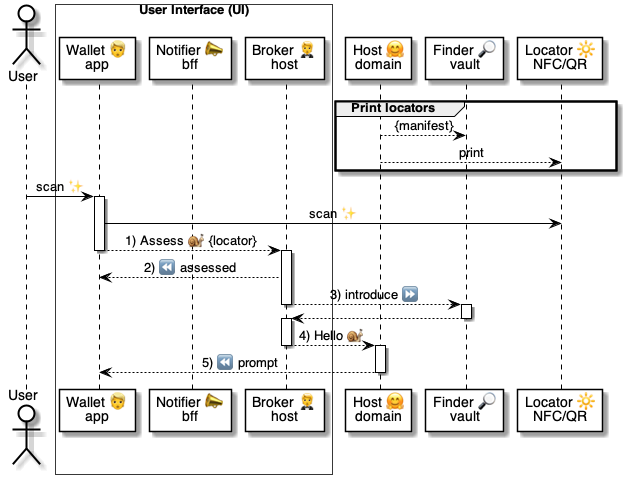
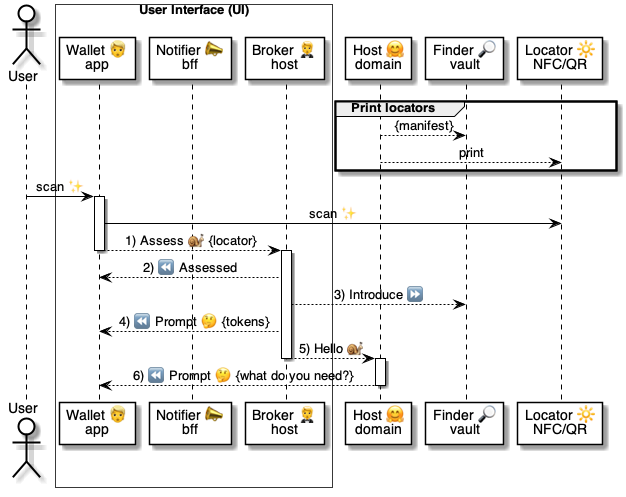
.

diff --git a/4 ⚙ Solution/20 🧑🦰 UI/24 🗄 Vaults/05 🛠👥 Helper domain.md b/4 ⚙ Solution/20 🧑🦰 UI/24 🗄 Vaults/05 🛠👥 Helper domain.md
@@ -3,11 +3,20 @@
 
 1. **What are Helper domains?**
 
-    Helpers 🛠 are [domains 👥](<../../40 👥 Domains/44 📜 Manifests/00 👥 Domain.md>) that support other [domains 👥](<../../40 👥 Domains/44 📜 Manifests/00 👥 Domain.md>) by offloading common undifferentiated responsibilities.
+    A [Helper 🛠👥](<05 🛠👥 Helper domain.md>) is
+    - any [domain 👥](<../../40 👥 Domains/44 📜 Manifests/00 👥 Domain.md>) that support other [domains 👥](<../../40 👥 Domains/44 📜 Manifests/00 👥 Domain.md>) 
+    - by offloading common undifferentiated responsibilities.
+
+    ---
+    <br/>
+
+1. **How do Helpers compare to Vaults?**
+
     * They are similar to [Vault 🗄 domains](<03 🗄🎭 Vault role.md>), but focused on [domains 👥](<../../40 👥 Domains/44 📜 Manifests/00 👥 Domain.md>) instead of [Wallet 🧑🦰 apps](<../01 🧑🦰 Wallets/01 🧑🦰 Wallet app.md>).
     * Given the similarity, some [Vault 🗄 domains](<03 🗄🎭 Vault role.md>) may also be Helpers 🛠 (e.g., [Payer 💳 domains](<../../30 🫥 Agents/04 💳 Payers/03 💳🎭 Payer role.md>)).
 
     ---
+    <br/>
 
 1. **What are examples of Helper domains?**
    
@@ -25,16 +34,70 @@
     | [🪄 Wand](<../../70 🌳 Ambient/71 💠 Brand Things/09 🪄🛠 Wand helper.md>) | - | Manages [Chats 💬](<../12 💬 Chats/01 💬 Chat.md>) for [Things 💠](<../../70 🌳 Ambient/71 💠 Brand Things/01 💠 Thing.md>) on behalf of [Brand 🍏 domains](<../../70 🌳 Ambient/71 💠 Brand Things/07 🍏🎭 Brand role.md>).
 
     ---
+    <br/>
 
-1. **How do domains leverage Helper domains?**
+1. **How can domain-admin users leverage a Helper?**
+
+    |#| Group | Step
+    |-|-|-
+    |1| `Find` | [Find 🔎](<../../30 🫥 Agents/10 🔎 Finders/02 🔎🫥 Finder vault.md>) a [Helper 🛠 ](<05 🛠👥 Helper domain.md>) with the desired services
+    |2| `Chat` | [Chat 💬](<../12 💬 Chats/01 💬 Chat.md>) with the Helper's [Host 🤗 role](<../12 💬 Chats/04 🤗🎭 Host role.md>)
+    |3| `Bind`| [Bind 🔗](<../24 🗄 Vaults/01 🔗 Bind.md>) to the Helper's [Vault 🗄 role](<../24 🗄 Vaults/03 🗄🎭 Vault role.md>)
+    |4| `Bill` | Subscribe a plan in the Helper's [Biller 🤝](<../../30 🫥 Agents/04 💳 Payers/06 🤝🛠 Biller helper.md>)
+    |5| `Link` | Link a [Payer 💳](<../../30 🫥 Agents/04 💳 Payers/03 💳🎭 Payer role.md>) with the Helper's [Biller 🤝](<../../30 🫥 Agents/04 💳 Payers/06 🤝🛠 Biller helper.md>)
+
 
     ---
+    <br/>
 
-1. **Do domains have to register with Helper domains?**
+1. **What does the Chat look like?**
 
+    | Service | Prompt  | User 
+    | - | - | - 
+    | 🛠 [Helper](<05 🛠👥 Helper domain.md>) | 😃 Hi! What do you need? <br/>- [ Register ]  | > Register
+    | 🤵 [Broker](<../../../4 ⚙ Solution/20 🧑🦰 UI/03 🤵 Brokers/03 🤵 Broker domain.md>) | 🫥 [Ready to register?](<../../../5 ⏩ Flows/50 🤗⏩ Hosts/05 🤗⏩🧑🦰 Form 📝.md>) [Yes, No] <br>- Bind to create a profile. <br/>- Choose a billing plan. <br/>- Add a payment method. <br/>- Sign the terms and conditions. | > Yes
+    | 🤵 [Broker](<../03 🤵 Brokers/03 🤵 Broker domain.md>) | 🫥 [Bind?](<../../../5 ⏩ Flows/90 🧑🦰👉 Wallets/30 👉🔗 Binds/02 🧑🦰👉🗄 Bind.md>) [Yes, No, +]<br/>- [HOST/PERSONALIZE 🧩](<../../../8 📜 Manifests/👥 nlweb.org/{codes}/HOST/🧩 HostPersonalize.md>) | > Yes 
+    | 🤵 [Broker](<../../../4 ⚙ Solution/20 🧑🦰 UI/03 🤵 Brokers/03 🤵 Broker domain.md>) | 🫥 [Allow guest domain?](<../../../5 ⏩ Flows/50 🤗⏩ Hosts/03 🤗⏩🧑🦰 Invite 🛠.md>) [Yes, No]  <br/> - Any Biller 🤝<br/>- [ Always ] for Any Helper 🛠 | > Always
+    | 🤝 [Biller](<../../30 🫥 Agents/04 💳 Payers/06 🤝🛠 Biller helper.md>) | 😃 What plan to subscribe? <br/>- [ Simple ] pay-as-you-go  <br/>- [ Monthly ] commitment | > Simple
+    | 💳 [Payer](<../../30 🫥 Agents/04 💳 Payers/03 💳🎭 Payer role.md>) | 🫥 Link to Any Biller? [Yes, No, +] <br/>- [ card ABC ] + $0.10<br/>- [ card DEF ] (free) | > card ABC 
+    | 🆔 [Identity](<../../30 🫥 Agents/05 🆔 Identities/01 🆔🫥 Identity agent.md>) | 🫥 Sign terms? 📄 [Yes, No] | > Yes
+    | 🆔 [Identity](<../../30 🫥 Agents/05 🆔 Identities/01 🆔🫥 Identity agent.md>) | 🫥 Let me see if it's you. | [📸 selfie](<../../30 🫥 Agents/05 🆔 Identities/21 🆔😶 Face scan.md>)
+    | 🛠 [Helper](<05 🛠👥 Helper domain.md>) | ✅ Done!
+    
+    ---
+    <br/>
+
+1. **What does the Bind Chat looks like?**
+
+    | Service | Prompt  | User 
+    | - | - | - 
+    | [🛠 Helper](<05 🛠👥 Helper domain.md>) | 😃 Hi! What do you need? <br/>- [ Bind ]  | > Bind
+    | [🛠 Helper](<05 🛠👥 Helper domain.md>) | ✅ Done!
+    
+    | [🤵 Broker](<../03 🤵 Brokers/03 🤵 Broker domain.md>) | 🫥 Bind [Yes, No]<br/>- domain admin 🧩 | > Yes 
+    | [🧑💻 Hoster](<../35 ☁ Hosters/05 ☁🛠 Hoster helper.md>) | 😃 Name for the domain? | `my-domain`
+    | 🤵 [Broker](<../03 🤵 Brokers/03 🤵 Broker domain.md>) | 🫥 Save token? [Yes, No] <br/>- domain owner 🎫 <br/>- of my-domain
+    | [🧑💻 Hoster](<../35 ☁ Hosters/05 ☁🛠 Hoster helper.md>) | ✅ Done!
+
+1. **What roles do Helpers typically implement?**
+
+    | [Role 🎭](<../../40 👥 Domains/44 📜 Manifests/00 👥 Domain.md>) | Purpose
+    |-|-
+    | [🤗 Host](<../12 💬 Chats/04 🤗🎭 Host role.md>) | To open [Chats 💬](<../12 💬 Chats/01 💬 Chat.md>) with domain-admin users.
+    | [🪢 Integrator](<../12 💬 Chats/06 🪢🎭 Integrator role.md>) | To manifest its services to  [Finder 🔎 domains](<../../30 🫥 Agents/10 🔎 Finders/02 🔎🫥 Finder vault.md>).
+    | [💵 Seller](<../../30 🫥 Agents/04 💳 Payers/01 💵🎭 Seller role.md>) | To sell the usage plans via a [Biller 💳 helper domain](<../../30 🫥 Agents/04 💳 Payers/06 🤝🛠 Biller helper.md>).
+    
 
     ---
+    <br/>
 
-1. **How do Helper domains monetize?**
-   
+
+1. **What other domain Helpers do Helpers typically leverage?**
+
+    | [Helper 🛠](<../24 🗄 Vaults/05 🛠👥 Helper domain.md>)  | Purpose 
+    |-|-
+    | [💳 Biller](<../../30 🫥 Agents/04 💳 Payers/06 🤝🛠 Biller helper.md>) | To manage usage and subscription plans.
+    | [🏦 Collector](<../../30 🫥 Agents/04 💳 Payers/01 🏦🛠 Collector helper.md>) | To collect usage and subscription payments.
+    
     ---
+    <br/>

diff --git a/4 ⚙ Solution/20 🧑🦰 UI/35 ☁ Hosters/05 ☁🛠 Hoster helper.md b/4 ⚙ Solution/20 🧑🦰 UI/35 ☁ Hosters/05 ☁🛠 Hoster helper.md
@@ -1,5 +1,12 @@
 # 🧑💻🛠 Hoster helper FAQ
 
+|.|.|.
+|-|-|-
+|3| `Clone`| On a workstation terminal, <br/>the user [scans ✨](<../11 🔆 Locators/03 🧑🦰✨ Wallet QR scan.md>) the terminal QR code <br/>to link the terminal to the [Wallet 🧑🦰 app](<../01 🧑🦰 Wallets/01 🧑🦰 Wallet app.md>)<br/>and download the [domain 👥](<../../40 👥 Domains/44 📜 Manifests/00 👥 Domain.md>) settings.
+|4| `Edit`| On a code editor (e.g., Visual Studio Code)<br/>the user configures the logic webhooks <br/>and the public [domain 📜 Manifest](<../../40 👥 Domains/44 📜 Manifests/01 📜 Domain Manifest.md>).
+|5| `Sync`| On the workstation terminal, <br/>the user synchronizes the changes <br/>with the [Hoster ☁ domain](<05 ☁🛠 Hoster helper.md>).
+|6| `Test`| From the workstation terminal, <br/>the user opens [Chats 💬](<../12 💬 Chats/01 💬 Chat.md>) for manual testing.
+
 1. **What is a Hoster?**
 
     A [🧑💻 Hoster](<05 ☁🛠 Hoster helper.md>) is 
@@ -10,58 +17,9 @@
     ---
     <br/>
 
-1. **What roles do Hosters typically implement?**
-
-    | [Role 🎭](<../../40 👥 Domains/44 📜 Manifests/00 👥 Domain.md>) | Purpose
-    |-|-
-    | [🤗 Host](<../12 💬 Chats/04 🤗🎭 Host role.md>) | To have [Chats 💬](<../12 💬 Chats/01 💬 Chat.md>) with users.
-    | [🗄 Vault](<../24 🗄 Vaults/03 🗄🎭 Vault role.md>) | To store the [domain 👥](<../../40 👥 Domains/44 📜 Manifests/00 👥 Domain.md>) settings.
-    | [🎴 Issuer](<../25 🎫 Tokens/02 🎴🎭 Issuer role.md>) | To issue [domain 👥](<../../40 👥 Domains/44 📜 Manifests/00 👥 Domain.md>) ownership [Tokens 🎫](<../25 🎫 Tokens/01 🎫 Token.md>).
-    | [🪢 Integrator](<../12 💬 Chats/06 🪢🎭 Integrator role.md>) | To manifest the hosting service to  [Finder 🔎 domains](<../../30 🫥 Agents/10 🔎 Finders/02 🔎🫥 Finder vault.md>).
-    | [💵 Seller](<../../30 🫥 Agents/04 💳 Payers/01 💵🎭 Seller role.md>) | To sell the usage plans via a [Biller 💳 helper domain](<../../30 🫥 Agents/04 💳 Payers/06 🤝🛠 Biller helper.md>).
-    
-
-    ---
-    <br/>
-
-1. **What domain Helpers do Hosters typically leverage?**
-
-    | [Helper 🛠](<../24 🗄 Vaults/05 🛠👥 Helper domain.md>)  | Purpose 
-    |-|-
-    | [💳 Biller](<../../30 🫥 Agents/04 💳 Payers/06 🤝🛠 Biller helper.md>) | To manage usage and subscription plans.
-    | [🏦 Collector](<../../30 🫥 Agents/04 💳 Payers/01 🏦🛠 Collector helper.md>) | To collect usage and subscription payments.
-    
-    ---
-    <br/>
 
 
-1. **How can a domain admin user leverage a [🧑💻 Hoster](<05 ☁🛠 Hoster helper.md>)?**
 
-    |#| Category | Step
-    |-|-|-
-    |1| `Find` | Using their [Wallet 🧑🦰 app](<../01 🧑🦰 Wallets/01 🧑🦰 Wallet app.md>), <br/>the admin user [finds 🔎](<../../30 🫥 Agents/10 🔎 Finders/02 🔎🫥 Finder vault.md>) a [Hoster ☁ domain](<../12 💬 Chats/01 💬 Chat.md>) with the [Hoster's Host 🤗 role](<../12 💬 Chats/04 🤗🎭 Host role.md>).
-    |2| `Bind`| On the [Chat 💬](<../12 💬 Chats/01 💬 Chat.md>), <br/>the user [Binds 🔗](<../24 🗄 Vaults/01 🔗 Bind.md>) to the [Hoster's Vault 🗄 role](<../24 🗄 Vaults/03 🗄🎭 Vault role.md>), <br/>and creates a new [domain 👥](<../../40 👥 Domains/44 📜 Manifests/00 👥 Domain.md>).
-    |3| `Clone`| On a workstation terminal, <br/>the user [scans ✨](<../11 🔆 Locators/03 🧑🦰✨ Wallet QR scan.md>) the terminal QR code <br/>to link the terminal to the [Wallet 🧑🦰 app](<../01 🧑🦰 Wallets/01 🧑🦰 Wallet app.md>)<br/>and download the [domain 👥](<../../40 👥 Domains/44 📜 Manifests/00 👥 Domain.md>) settings.
-    |4| `Edit`| On a code editor (e.g., Visual Studio Code)<br/>the user configures the logic webhooks <br/>and the public [domain 📜 Manifest](<../../40 👥 Domains/44 📜 Manifests/01 📜 Domain Manifest.md>).
-    |5| `Sync`| On the workstation terminal, <br/>the user synchronizes the changes <br/>with the [Hoster ☁ domain](<05 ☁🛠 Hoster helper.md>).
-    |6| `Test`| From the workstation terminal, <br/>the user opens [Chats 💬](<../12 💬 Chats/01 💬 Chat.md>) for manual testing.
-
-    ---
-    <br/>
-
-
-1. **What does the Wallet Chat looks like?**
-
-    | Service | Prompt  | User 
-    | - | - | - 
-    | [🧑💻 Hoster](<05 ☁🛠 Hoster helper.md>) | 😃 Hi! What do you need? <br/>- [ Create ] a domain <br/>- [ Something else ] | > Create
-    | [🤵 Broker](<../03 🤵 Brokers/03 🤵 Broker domain.md>) | 🫥 Bind [Yes, No]<br/>- domain admin 🧩 | > Yes 
-    | [🧑💻 Hoster](<05 ☁🛠 Hoster helper.md>) | 😃 Name for the domain? | `my-domain`
-    | 🤵 [Broker](<../03 🤵 Brokers/03 🤵 Broker domain.md>) | 🫥 Save token? [Yes, No] <br/>- domain owner 🎫 <br/>- of my-domain
-    | [🧑💻 Hoster](<05 ☁🛠 Hoster helper.md>) | ✅ Done!
-    
-    ---
-    <br/>
 
 1. **What commands are supported on the terminal CLI?**
 

diff --git a/5 ⏩ Flows/90 🧑🦰👉 Wallets/15 👉🔆 Locators/01 🧑🦰👉🤗 Scan host QR.md b/5 ⏩ Flows/90 🧑🦰👉 Wallets/15 👉🔆 Locators/01 🧑🦰👉🤗 Scan host QR.md
@@ -13,6 +13,8 @@
 | - | - | - |
 | | | 🔆 [scan](<../../../4 ⚙ Solution/20 🧑🦰 UI/11 🔆 Locators/01 🔆 Locator.md>) |
 | 🔎 [Finder](<../../../4 ⚙ Solution/30 🫥 Agents/10 🔎 Finders/02 🔎🫥 Finder vault.md>) | ⓘ Any Host (4.8 ⭐) [+]
+| 🤵 [Broker](<../../../4 ⚙ Solution/20 🧑🦰 UI/03 🤵 Brokers/03 🤵 Broker domain.md>) | ⓘ [Tokens 🎫 ](<../../../4 ⚙ Solution/20 🧑🦰 UI/25 🎫 Tokens/01 🎫 Token.md>) shared [+]
+| 🤗 [Host](<../../../4 ⚙ Solution/20 🧑🦰 UI/12 💬 Chats/04 🤗🎭 Host role.md>) | ℹ Any Locator details.
 | 🤗 [Host](<../../../4 ⚙ Solution/20 🧑🦰 UI/12 💬 Chats/04 🤗🎭 Host role.md>) | 😃 Hi! What do you need? <br/>- [ Something ] <br/>- [ Something else ] 
 ||
 
@@ -25,9 +27,10 @@
 
 | # | Call | Notes
 |-|-|-
-| 1 | [🧑🦰🚀🤵 `Assess@Broker`](<../../../6 🅰 APIs/15 🤵🅰 Broker/30 🤵🅰 Chats 💬/01 🧑🦰🐌🤵 Assess.md>) | Parse the [Locator 🔆](<../../../4 ⚙ Solution/20 🧑🦰 UI/11 🔆 Locators/01 🔆 Locator.md>) in the [Broker 🤵 domain](<../../../4 ⚙ Solution/20 🧑🦰 UI/03 🤵 Brokers/03 🤵 Broker domain.md>)
-| 2 | [🤵⏩🧑🦰 Assessed 🔆](<../../10 🤵⏩ Brokers/01 🤵⏩🧑🦰 Assessed.md>) | Ask the [Wallet 🧑🦰 app](<../../../4 ⚙ Solution/20 🧑🦰 UI/01 🧑🦰 Wallets/01 🧑🦰 Wallet app.md>)  to open a chat window
-| 3 | [🔎⏩🧑🦰 Introduce 🤗](<../../40 🔎⏩ Finders/01 🔎⏩🧑🦰 Introduce.md>) | Ask the [Finder 🔎 domain](<../../../4 ⚙ Solution/30 🫥 Agents/10 🔎 Finders/02 🔎🫥 Finder vault.md>) to introduce the [Host 🤗 domain](<../../../4 ⚙ Solution/20 🧑🦰 UI/12 💬 Chats/04 🤗🎭 Host role.md>)
-| 4 | [🤵🐌🤗 `Hello@Host`](<../../../6 🅰 APIs/50 🤗🅰 Host/01 🤵🐌🤗 Hello.md>) | Ask the [Host 🤗 domain](<../../../4 ⚙ Solution/20 🧑🦰 UI/12 💬 Chats/04 🤗🎭 Host role.md>) to interact
-| 5 | [🤗⏩🧑🦰 Prompt 🤔](<../../50 🤗⏩ Hosts/01 🤗⏩🧑🦰 Prompt 🤔.md>) | The welcome message from the [Host 🤗 domain](<../../../4 ⚙ Solution/20 🧑🦰 UI/12 💬 Chats/04 🤗🎭 Host role.md>) 
+| 1 | [🧑🦰🚀🤵 `Assess@Broker`](<../../../6 🅰 APIs/15 🤵🅰 Broker/30 🤵🅰 Chats 💬/01 🧑🦰🐌🤵 Assess.md>) | Parse [Locators 🔆](<../../../4 ⚙ Solution/20 🧑🦰 UI/11 🔆 Locators/01 🔆 Locator.md>) in the [Broker 🤵](<../../../4 ⚙ Solution/20 🧑🦰 UI/03 🤵 Brokers/03 🤵 Broker domain.md>)
+| 2 | [🤵⏩🧑🦰 Assessed 🔆](<../../10 🤵⏩ Brokers/01 🤵⏩🧑🦰 Assessed.md>) | Ask [Wallets 🧑🦰](<../../../4 ⚙ Solution/20 🧑🦰 UI/01 🧑🦰 Wallets/01 🧑🦰 Wallet app.md>)  to open a chat window
+| 3 | [🔎⏩🧑🦰 Introduce 🤗](<../../40 🔎⏩ Finders/01 🔎⏩🧑🦰 Introduce.md>) | Ask [Finders 🔎](<../../../4 ⚙ Solution/30 🫥 Agents/10 🔎 Finders/02 🔎🫥 Finder vault.md>) to introduce [Hosts 🤗](<../../../4 ⚙ Solution/20 🧑🦰 UI/12 💬 Chats/04 🤗🎭 Host role.md>)
+| 4 | [🤗⏩🧑🦰 Prompt 🤔](<../../50 🤗⏩ Hosts/01 🤗⏩🧑🦰 Prompt 🤔.md>) | [Brokers 🤵](<../../../4 ⚙ Solution/20 🧑🦰 UI/03 🤵 Brokers/03 🤵 Broker domain.md>) disclose shared [Tokens 🎫](<../../../4 ⚙ Solution/20 🧑🦰 UI/25 🎫 Tokens/01 🎫 Token.md>) 
+| 5 | [🤵🐌🤗 `Hello@Host`](<../../../6 🅰 APIs/50 🤗🅰 Host/01 🤵🐌🤗 Hello.md>) | [Brokers 🤵](<../../../4 ⚙ Solution/20 🧑🦰 UI/03 🤵 Brokers/03 🤵 Broker domain.md>) ask [Hosts 🤗](<../../../4 ⚙ Solution/20 🧑🦰 UI/12 💬 Chats/04 🤗🎭 Host role.md>) to interact
+| 6 | [🤗⏩🧑🦰 Prompt 🤔](<../../50 🤗⏩ Hosts/01 🤗⏩🧑🦰 Prompt 🤔.md>) | Welcome message from [Hosts 🤗](<../../../4 ⚙ Solution/20 🧑🦰 UI/12 💬 Chats/04 🤗🎭 Host role.md>) 
 ||

diff --git a/3 🤝 Use Cases/03 🧳 Travel/08 🧳 Stay at hotels 🏨/01 🏨 Guest @ Home 🏠/01 🏠 Book hotel.md b/3 🤝 Use Cases/03 🧳 Travel/08 🧳 Stay at hotels 🏨/01 🏨 Guest @ Home 🏠/01 🏠 Book hotel.md
@@ -15,7 +15,7 @@ How to book a room at a hotel?
 | [ new chat ]
 | 🔎 [Finder](<../../../../4 ⚙ Solution/30 🫥 Agents/10 🔎 Finders/02 🔎🫥 Finder vault.md>) | ⓘ Any Agency (4.4 ⭐) [+]
 | 🌍 Agency   | ℹ Received booking request.
-| 🤵 [Broker](<../../../../4 ⚙ Solution/20 🧑🦰 UI/03 🤵 Brokers/03 🤵 Broker domain.md>) | 🫥 Ready to book? [Yes, No] <br/> - your scheduler sets when 🗓  <br/> - your curator filters options 🧚 <br/> - your persona sets contacts 🧢 <br/> - your payer associates a card 💳 <br/> - save the booking on wallet 🤵 <br/> - click the booking to change 🎫  <br/> - tap a hotel tag on arrival ✨ | > Yes
+| 🤵 [Broker](<../../../../4 ⚙ Solution/20 🧑🦰 UI/03 🤵 Brokers/03 🤵 Broker domain.md>) | 🫥 [Ready to book?](<../../../../4 ⚙ Solution/20 🧑🦰 UI/33 😃 Talkers/41 📝 FORM msg.md>) [Yes, No] <br/> - your scheduler sets when 🗓  <br/> - your curator filters options 🧚 <br/> - your persona sets contacts 🧢 <br/> - your payer associates a card 💳 <br/> - save the booking on wallet 🤵 <br/> - click the booking to change 🎫  <br/> - tap a hotel tag on arrival ✨ | > Yes
 | [🗓 Scheduler](<../../../../4 ⚙ Solution/30 🫥 Agents/38 🕓 User Timeline/04 🗓🗄 Scheduler agent.md>) | 🫥 Any of these trips? [No] <br/>- [ Feb 18-20 ] to Madrid 🇪🇸 <br/>- [ Mar 26-28 ] to London 🇬🇧 | > Feb 18-20
 | 🌍 Agency   | ℹ Received information: <br/> - 1 person for 2 nights <br/>- in Madrid, Spain <br/> - near Cuatro Torres  <br/> - from Feb 18 to Feb 20
 | 🌍 Agency   | ⏳ Searching... 
@@ -29,7 +29,7 @@ How to book a room at a hotel?
 | 🌍 Agency   | 😃 Confirm $250? [Yes, No] <br/> - Any Hotel <br/> - at Calla de St. Ana, Madrid, SP <br/> - room king to garden <br/> - from Feb 18 to Feb 20 <br/> - 1 person, no breakfast <br/> - cancel for free until Jan 7 | > Yes
 | 🧢 [Persona](<../../../../4 ⚙ Solution/30 🫥 Agents/02 🧢 Personas/02 🧢🫥 Persona agent.md>) | 🫥 Share booking contacts? [No] <br/>- [ 🧑🦰 personal ] <br/>- [ 💼 work ] <br/>- [ 🧔 Daniel ] | > 💼 work
 | 🌍 Agency   | ℹ Thanks, Dr. Alice! 
-| 🆔 [Identity](<../../../../4 ⚙ Solution/30 🫥 Agents/05 🆔 Identities/01 🆔🫥 Identity agent.md>) | 🫥 Sign terms? 📄 [Yes, No] | > Yes
+| 🆔 [Identity](<../../../../4 ⚙ Solution/30 🫥 Agents/05 🆔 Identities/01 🆔🫥 Identity agent.md>) | 🫥 [Sign terms?](<../../../../4 ⚙ Solution/30 🫥 Agents/05 🆔 Identities/16 🆔🔏 Verify Signatures.md>) 📄 [Yes, No] | > Yes
 | 🆔 [Identity](<../../../../4 ⚙ Solution/30 🫥 Agents/05 🆔 Identities/01 🆔🫥 Identity agent.md>) | 🫥 Let me see if it's you. | [📸 selfie](<../../../../4 ⚙ Solution/30 🫥 Agents/05 🆔 Identities/21 🆔😶 Face scan.md>)
 | 💳 [Payer](<../../../../4 ⚙ Solution/30 🫥 Agents/04 💳 Payers/03 💳🎭 Payer role.md>) | 🫥 Authorize card? 📄 [No] <br/>- [ Card ABC ] + $0.10 <br/>- [ Card DEF ] (free) | > Card ABC |
 | 🤵 [Broker](<../../../../4 ⚙ Solution/20 🧑🦰 UI/03 🤵 Brokers/03 🤵 Broker domain.md>) | 🫥 Save booking? [Yes, No] | > Yes 

diff --git a/4 ⚙ Solution/20 🧑🦰 UI/35 ☁ Hosters/03 📥🛠 Inboxer helper.md b/4 ⚙ Solution/20 🧑🦰 UI/35 ☁ Hosters/03 📥🛠 Inboxer helper.md
@@ -1,0 +1,26 @@
+# 📥🛠 Inboxer helper domain
+
+
+1. **What is an Inboxer?**
+
+    An [Inboxer 📥 helper domain](<03 📥🛠 Inboxer helper.md>) is
+    * any [Helper 🛠 domain](<../24 🗄 Vaults/05 🛠👥 Helper domain.md>)
+    * that sends and receives [Messages 📨](<../../40 👥 Domains/41 📨 Comms/01 📨 Domain Message.md>) on behalf of a client [domain 👥](<../../40 👥 Domains/44 📜 Manifests/00 👥 Domain.md>)
+    * proxying incoming [Messages 📨](<../../40 👥 Domains/41 📨 Comms/01 📨 Domain Message.md>) to an HTTP endpoint in the client
+    * and signing the client's outbound [Messages 📨](<../../40 👥 Domains/41 📨 Comms/01 📨 Domain Message.md>) to other [domains 👥](<../../40 👥 Domains/44 📜 Manifests/00 👥 Domain.md>).
+
+    ---
+    <br>
+
+
+1. **What roles do Inboxers typically implement?**
+
+    | [Role 🎭](<../../40 👥 Domains/44 📜 Manifests/00 👥 Domain.md>) | Purpose
+    |-|-
+    | [🗄 Vault](<../24 🗄 Vaults/03 🗄🎭 Vault role.md>) | To store the [domain 👥](<../../40 👥 Domains/44 📜 Manifests/00 👥 Domain.md>) settings.
+    | [🎴 Issuer](<../25 🎫 Tokens/02 🎴🎭 Issuer role.md>) | To issue [domain 👥](<../../40 👥 Domains/44 📜 Manifests/00 👥 Domain.md>) ownership [Tokens 🎫](<../25 🎫 Tokens/01 🎫 Token.md>).    
+
+    ---
+    <br/>
+
+

diff --git a/4 ⚙ Solution/30 🫥 Agents/10 🔎 Finders/02 🔎🫥 Finder vault.md b/4 ⚙ Solution/30 🫥 Agents/10 🔎 Finders/02 🔎🫥 Finder vault.md
@@ -51,7 +51,12 @@
     | - | - | - |
     | 🔎 [Finder](<02 🔎🫥 Finder vault.md>) | 😃 Hi! What do you need? | `a bar`
     | 🔎 [Finder](<02 🔎🫥 Finder vault.md>) | 💬 Here are suggestions: <br/> - [ Any Club 🕺 ] (4.4 ⭐) <br/> &nbsp; └ 👟 1.7km 🚪 10pm-5am <br/> - [ Any Bar 🍸 ] (4.8 ⭐) <br/> &nbsp; ├ 👟 1.7km 🚪 1pm-10pm <br/> &nbsp; ├ open bar from 8pm <br/> &nbsp; └ closes in ~1 hour <br/> - [ Find 🔎 ] alternatives | > Any Bar 🍸
-    | 🔎 [Finder](<02 🔎🫥 Finder vault.md>) | 💬 Suggested next steps: <br/> - [ Get there 🧭 ] <br/> - [ Buy entry in advance ]  
+    | 🔎 [Finder](<02 🔎🫥 Finder vault.md>) | 💬 Suggested next steps: <br/> - [ Get there 🧭 ] <br/> - [ Buy ] entry in advance 
+    | [🤗 Host](<../../20 🧑🦰 UI/12 💬 Chats/04 🤗🎭 Host role.md>) | ✅ Over to 🍸 Any Bar.
+    | [ new chat ]
+    | 🔎 [Finder](<../../30 🫥 Agents/10 🔎 Finders/02 🔎🫥 Finder vault.md>) | ⓘ Any Bar (4.4 ⭐) [+]
+    | 🍸 Bar   | ℹ Buy entry request.
+    | 🍸 Bar  | 😃 How many entries?
    
     ---
     <br/>

diff --git a/4 ⚙ Solution/20 🧑🦰 UI/24 🗄 Vaults/03 🗄🎭 Vault role.md b/4 ⚙ Solution/20 🧑🦰 UI/24 🗄 Vaults/03 🗄🎭 Vault role.md
@@ -3,8 +3,8 @@
 
 1. **What is a Vault domain role in NLWeb?**
 
-    A [domain 👥](<../../40 👥 Domains/44 📜 Manifests/00 👥 Domain.md>) with a [Vault 🗄 role](<03 🗄🎭 Vault role.md>) is 
-    * any [domain 👥](<../../40 👥 Domains/44 📜 Manifests/00 👥 Domain.md>) that stores user data,
+    A [domain 👥](<../../40 👥 Domains/44 📜 Manifests/00 👥 Domain.md>) with a [Vault 🗄 role](<03 🗄🎭 Vault role.md>) 
+    * is any [domain 👥](<../../40 👥 Domains/44 📜 Manifests/00 👥 Domain.md>) that stores user data,
     * has a [Bind 🔗](<01 🔗 Bind.md>) with the user's [Wallet 🧑🦰 app](<../01 🧑🦰 Wallets/01 🧑🦰 Wallet app.md>), 
     * and shares it with [Consumer 💼 domains](<../27 💼 Consumers/04 💼🎭 Consumer role.md>). 
 

diff --git a/8 📜 Manifests/👥 nlweb.org/{codes}/HOST/🧩 HostPersonalize.md b/8 📜 Manifests/👥 nlweb.org/{codes}/HOST/🧩 HostPersonalize.md
@@ -4,4 +4,5 @@
 🤝: nlweb.org/MANIFEST/CODE
 
 Path: /HOST/PERSONIFY
-Description: Binding code for personification
+Name: Personalize
+Description: Binding code for personalization
